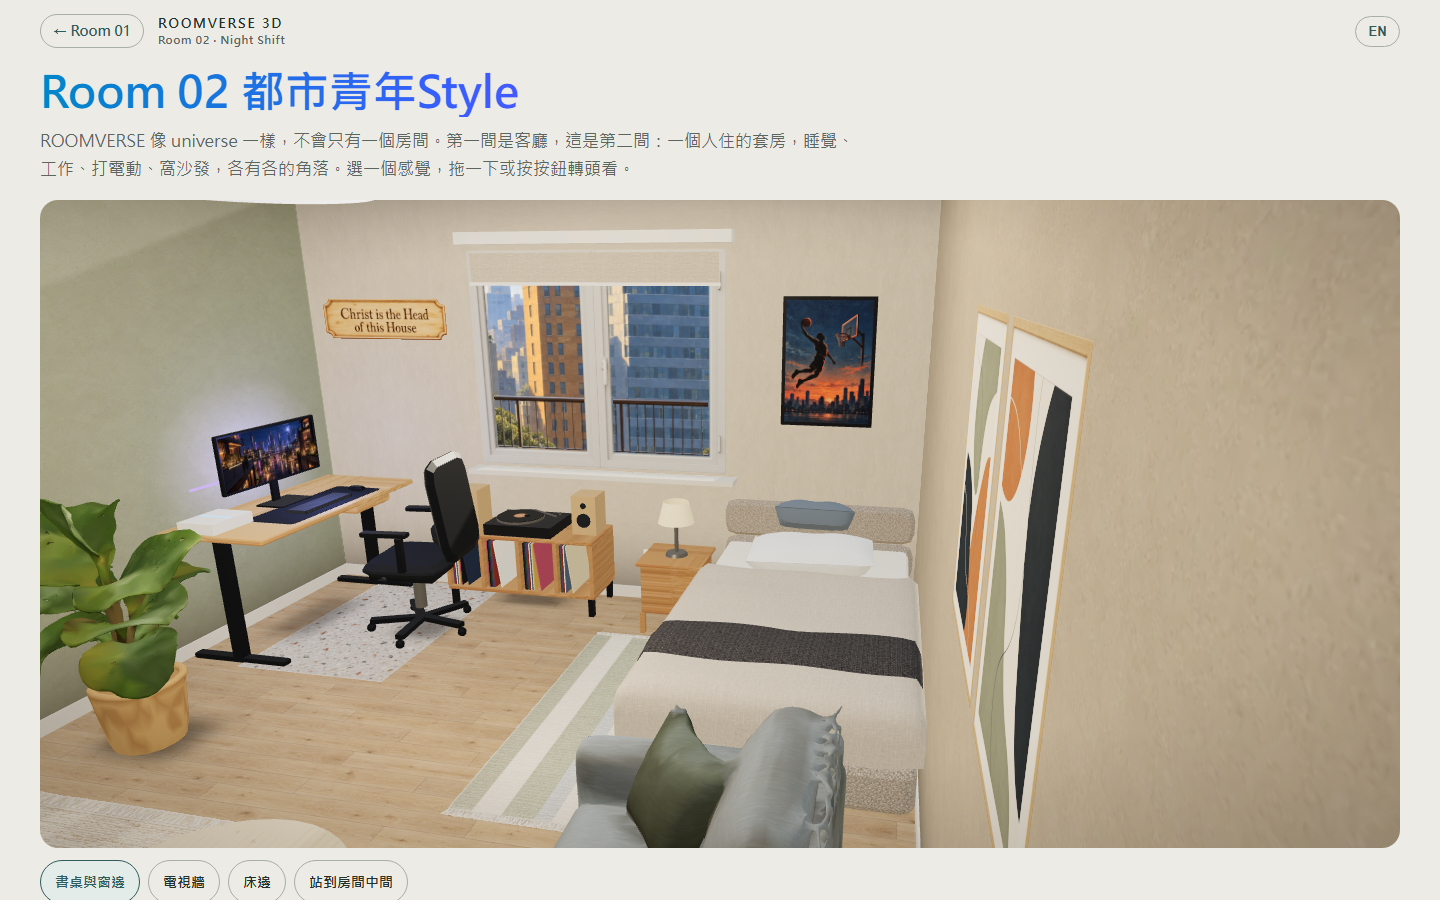
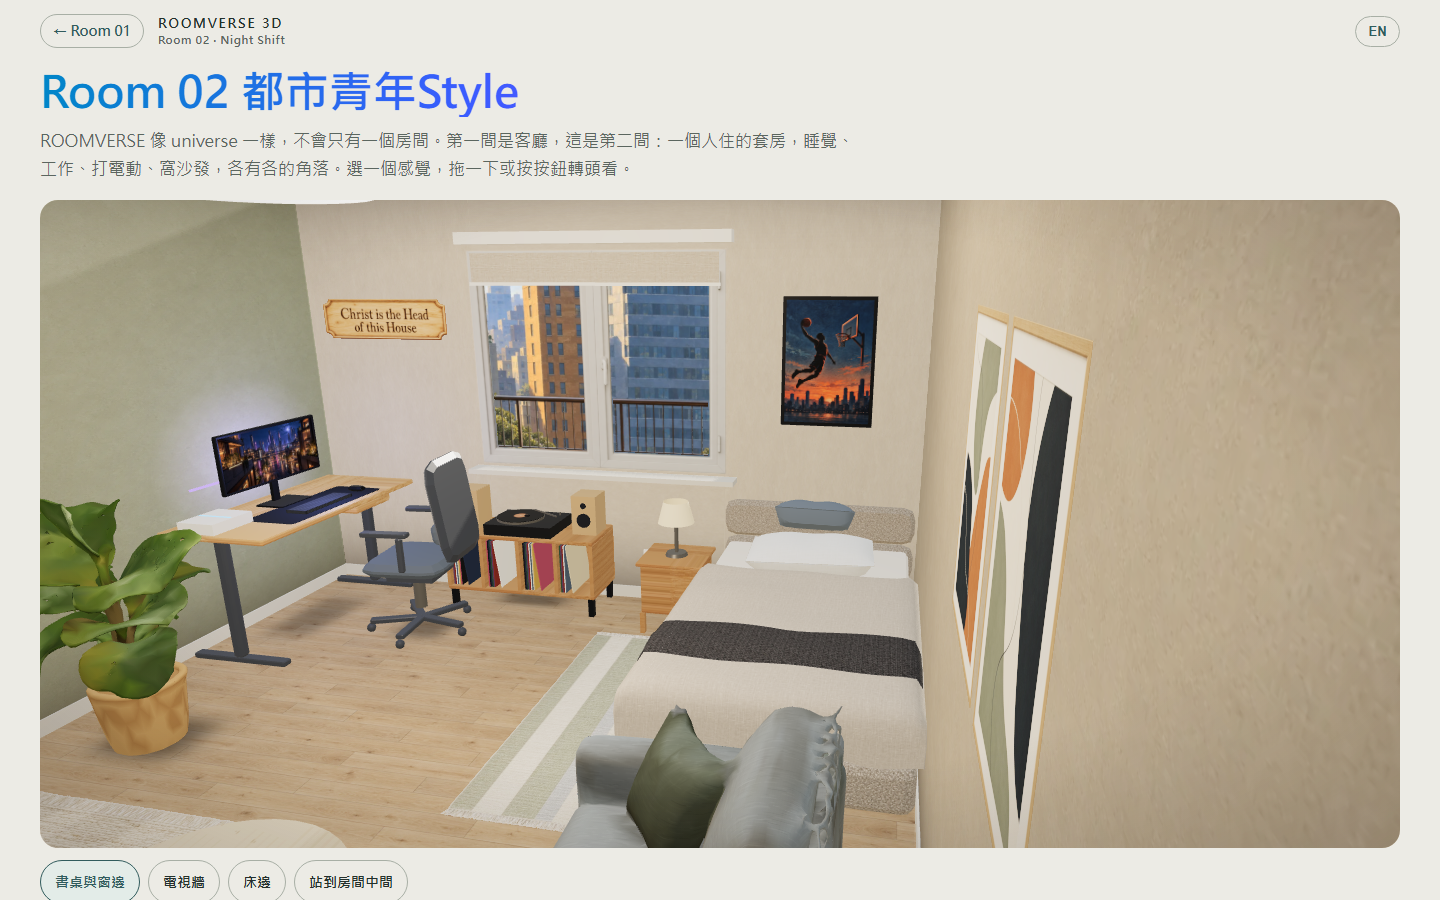
Room 02：併入 main #480，升版號 bedroom v39 / page v31，重拍 QA
merge origin/main（#480 opening look、馬克杯 GLB、椅腳）後保留抱枕修法；版本 39/31（main 38/30 取高 +1）。合併後量測：頂點 30,971、mesh 240、plaqueInView true、console errors 0；白枕 y .4628–.6485、抱枕 min y .6037（重疊 4.5 cm）。注意 main #480 本身已把整房頂點推到約 30,815、測試預算也改成 32,000，任務卡的 30,000 上限已不適用。

Changed region(s): [[0.125, 0.4978, 0.3438, 0.7778]]

diff --git a/public/prototype/roomverse-3d/bedroom/page.js b/public/prototype/roomverse-3d/bedroom/page.js
@@ -109,7 +109,7 @@ $("lang").onclick = () => { lang = lang === "zh" ? "en" : "zh"; const u = new UR
 $("enter").onclick = async () => {
   $("poster").hidden = true; $("status").hidden = false; $("status").textContent = COPY[lang].loading;
   try {
-    const { start } = await import("./bedroom.js?v=38");
+    const { start } = await import("./bedroom.js?v=39");
     room = await start({ stage: $("stage"), lang });
     $("status").hidden = true; $("moods").hidden = false; $("views").hidden = false; $("swaps").hidden = false; $("swaps").open = matchMedia("(min-width: 769px)").matches; // the swap options start tucked away on phones
     window.__bedroom = room; // test hook

diff --git a/public/prototype/roomverse-3d/bedroom/index.html b/public/prototype/roomverse-3d/bedroom/index.html
@@ -92,6 +92,6 @@
 <section class="moods" id="moods" hidden aria-labelledby="moodsLabel"><p id="moodsLabel" hidden></p><div class="row" id="moodRow" role="group"></div><p id="why" aria-live="polite"></p></section>
 <details class="swaps" id="swaps" hidden><summary id="swapsTitle"></summary><div id="swapGroups"></div></details>
 <p class="note" id="note"></p>
-<script type="module" src="page.js?v=30"></script>
+<script type="module" src="page.js?v=31"></script>
 </body>
 </html>
